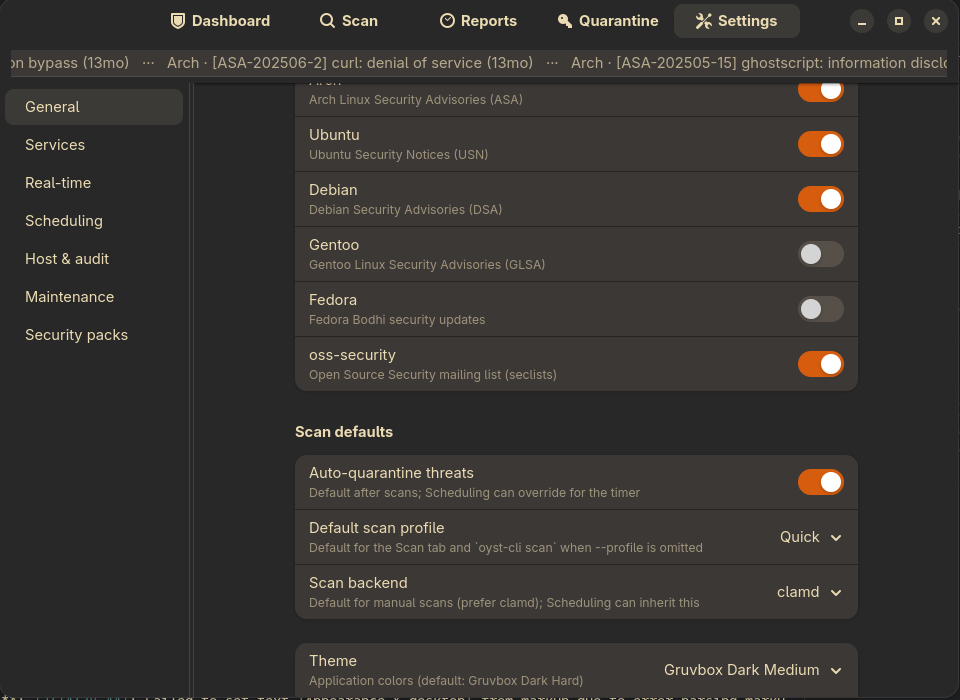
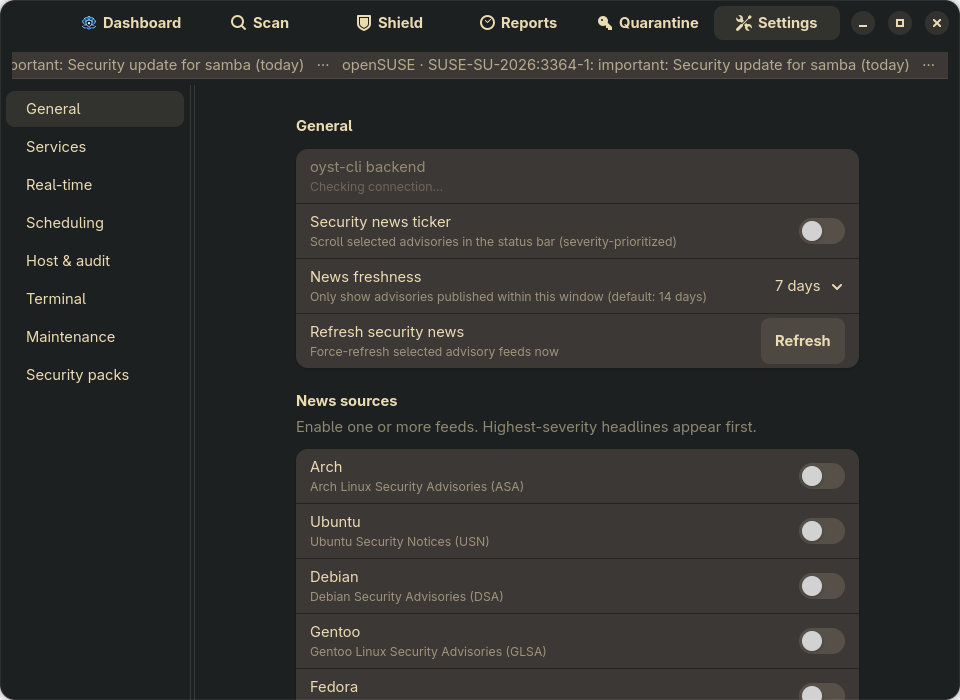
docs: refresh GUI screenshots and README for six-tab UI
Capture current Dashboard through Settings (incl. Shield/Quarantine),
update captions/install-adjacent copy, and extend Flatpak metainfo shots.

diff --git a/scripts/capture_gui_screenshots.py b/scripts/capture_gui_screenshots.py
@@ -1,0 +1,112 @@
+#!/usr/bin/env python3
+"""Capture oysterAV GUI tab screenshots for README / AppStream.
+
+Runs a short-lived GTK session, switches ViewStack tabs, and writes PNGs under
+docs/assets/screenshots/ via Gtk.WidgetPaintable + the window Gsk renderer.
+"""
+
+from __future__ import annotations
+
+import sys
+from pathlib import Path
+
+import gi
+
+gi.require_version("Gtk", "4.0")
+gi.require_version("Adw", "1")
+gi.require_version("Gdk", "4.0")
+
+from gi.repository import GLib, Gtk  # noqa: E402
+
+ROOT = Path(__file__).resolve().parents[1]
+OUT = ROOT / "docs" / "assets" / "screenshots"
+
+TABS: tuple[tuple[str, str], ...] = (
+    ("dashboard", "dashboard"),
+    ("scan", "scan"),
+    ("shield", "shield"),
+    ("reports", "reports"),
+    ("quarantine", "quarantine"),
+    ("settings", "settings"),
+)
+
+
+def _capture_window(win: Gtk.Window, dest: Path) -> None:
+    native = win.get_native()
+    if native is None:
+        raise RuntimeError("window has no native")
+    renderer = native.get_renderer()
+    if renderer is None:
+        raise RuntimeError("window has no renderer")
+    width = max(win.get_width(), 1)
+    height = max(win.get_height(), 1)
+    paintable = Gtk.WidgetPaintable.new(win)
+    snap = Gtk.Snapshot()
+    paintable.snapshot(snap, float(width), float(height))
+    node = snap.to_node()
+    if node is None:
+        raise RuntimeError(f"empty render node for {dest.name}")
+    texture = renderer.render_texture(node, None)
+    dest.parent.mkdir(parents=True, exist_ok=True)
+    texture.save_to_png(str(dest))
+    print(f"Wrote {dest} ({width}x{height})", flush=True)
+
+
+def main() -> int:
+    sys.path.insert(0, str(ROOT))
+
+    import oysterav.gui.widgets.setup_wizard as wiz_mod
+    from oysterav.gui.app import OysterApp
+
+    # Avoid first-run wizard overlay in marketing shots.
+    wiz_mod.should_show_wizard = lambda *_a, **_k: False  # type: ignore[assignment]
+
+    class CaptureApp(OysterApp):
+        def do_activate(self) -> None:  # noqa: N802 — GObject override
+            super().do_activate()
+            win = self._window
+            if win is None:
+                raise RuntimeError("OysterWindow not created")
+            win.set_default_size(960, 700)
+            win.present()
+            state = {"i": 0}
+
+            def after_settle(filename: str) -> bool:
+                _capture_window(win, OUT / f"{filename}.png")
+                GLib.timeout_add(300, step)
+                return False
+
+            def step() -> bool:
+                idx = int(state["i"])
+                if idx >= len(TABS):
+                    self.quit()
+                    return False
+                filename, child = TABS[idx]
+                state["i"] = idx + 1
+                win.stack.set_visible_child_name(child)
+                # Trigger page refresh when available (dashboard / settings / etc.).
+                page = {
+                    "dashboard": win.dashboard,
+                    "scan": win.scan,
+                    "shield": win.shield,
+                    "reports": win.reports,
+                    "quarantine": win.quarantine,
+                    "settings": win.settings,
+                }.get(child)
+                if page is not None and hasattr(page, "refresh"):
+                    try:
+                        page.refresh()
+                    except Exception:  # noqa: BLE001
+                        pass
+                settle_ms = 2200 if filename == "dashboard" else 1100
+                GLib.timeout_add(settle_ms, after_settle, filename)
+                return False
+
+            GLib.timeout_add(2500, step)
+
+    app = CaptureApp(start_minimized=False)
+    return app.run([])
+
+
+if __name__ == "__main__":
+    raise SystemExit(main())

diff --git a/README.md b/README.md
@@ -13,6 +13,7 @@
   <a href="https://github.com/asafelobotomy/oysterAV"><img alt="GitHub" src="https://img.shields.io/badge/github-asafelobotomy%2FoysterAV-blue?logo=github"></a>
   <a href="LICENSE"><img alt="License" src="https://img.shields.io/badge/license-GPL--3.0--or--later-green"></a>
   <img alt="Python" src="https://img.shields.io/badge/python-%E2%89%A5%203.12-3776AB?logo=python&logoColor=white">
+  <a href="https://pypi.org/project/oysterav/"><img alt="PyPI" src="https://img.shields.io/pypi/v/oysterav.svg"></a>
 </p>
 
 <p align="center">
@@ -28,18 +29,24 @@
 - **Orchestrator, not engine** — wraps ClamAV, rkhunter, Lynis, and friends ([ADR-001](docs/adr/001-orchestrator-not-engine.md))
 - **CLI owns security** — `oyst-cli` is the source of truth; the GUI is a client ([ADR-002](docs/adr/002-cli-first-gui-is-client.md))
 - **Full or Lite runtime** — vendored tools under XDG, or host packages only ([ADR-004](docs/adr/004-pack-runtime-delivery.md))
+- **Privilege Concert** — one admin auth per user action for multi-step privileged flows ([ADR-009](docs/adr/009-privilege-concert.md))
 - **Host co-control** — on-access blocking stays with ClamAV; oysterAV guides and responds ([ADR-008](docs/adr/008-clamav-host-cocontrol.md))
 
 ## Screenshots
 
-| Scan | Reports |
-|:----:|:-------:|
-| <img src="docs/assets/screenshots/scan.png" alt="Scan tab" width="360"> | <img src="docs/assets/screenshots/reports.png" alt="Reports tab" width="360"> |
-| Profiles, paths, multi-pack progress | History, export, quarantine / resolve actions |
+| Scan | Shield |
+|:----:|:------:|
+| <img src="docs/assets/screenshots/scan.png" alt="Scan tab" width="360"> | <img src="docs/assets/screenshots/shield.png" alt="Shield tab" width="360"> |
+| Profiles, paths, pack cards | Firewall, fail2ban, bans |
+
+| Reports | Quarantine |
+|:-------:|:----------:|
+| <img src="docs/assets/screenshots/reports.png" alt="Reports tab" width="360"> | <img src="docs/assets/screenshots/quarantine.png" alt="Quarantine tab" width="360"> |
+| History, export, resolve | Vault list, restore / delete |
 
 <p align="center">
   <img src="docs/assets/screenshots/settings.png" alt="Settings" width="720"><br>
-  <em>Settings — feeds, scan defaults, services, scheduling, packs</em>
+  <em>Settings — general, services, real-time, scheduling, host &amp; audit, terminal, packs</em>
 </p>
 
 ## Prerequisites
@@ -74,7 +81,9 @@ uv sync --extra gui --extra dev
 uv run oysterav
 ```
 
-The GUI talks only through `OystClient` / `oyst-cli serve` — never runs security tools itself. See [ADR-007](docs/adr/007-gui-remapping-phase.md) and the [GUI↔CLI contract](docs/cli/gui-contract.md).
+Six tabs: **Dashboard**, **Scan**, **Shield**, **Reports**, **Quarantine**, **Settings**.
+The GUI talks only through `OystClient` / `oyst-cli serve` — never runs security tools itself.
+See [ADR-007](docs/adr/007-gui-remapping-phase.md) and the [GUI↔CLI contract](docs/cli/gui-contract.md).
 
 ## Architecture
 
@@ -167,6 +176,7 @@ uv run oyst-cli serve --foreground   # RPC for the GUI
 - [Release / packaging](docs/packaging/release.md)
 - [Distro submit tracks](docs/packaging/distro-submit.md)
 - [Flatpak](packaging/oysterav/flatpak/README.md)
+- [GUI screenshots](docs/assets/screenshots/README.md)
 
 ## License
 

diff --git a/docs/assets/screenshots/README.md b/docs/assets/screenshots/README.md
@@ -1,19 +1,21 @@
 # GUI screenshots
 
-Marketing / README captures of the oysterAV GTK4 UI (960×700 window crops).
+Marketing / README captures of the oysterAV GTK4 UI (default 960×700 window).
 
 | File | Tab |
 |------|-----|
-| `dashboard.png` | Dashboard |
-| `scan.png` | Scan |
-| `reports.png` | Reports |
-| `settings.png` | Settings |
+| `dashboard.png` | Dashboard — posture cards, ticker, recent scans |
+| `scan.png` | Scan — profiles, paths, pack cards |
+| `shield.png` | Shield — firewall, fail2ban |
+| `reports.png` | Reports — history / export |
+| `quarantine.png` | Quarantine — vault |
+| `settings.png` | Settings — categories sidebar |
 
-Regenerate on a desktop session with the app running (portal screenshot + crop):
+Regenerate on a desktop session (no portal / IDE chrome):
 
 ```bash
-uv run oysterav &
-# then use AT-SPI + org.freedesktop.portal.Screenshot, crop to the oysterAV window
+uv sync --extra gui
+uv run python scripts/capture_gui_screenshots.py
 ```
 
 Do not commit full-desktop captures that include unrelated IDE chrome.
